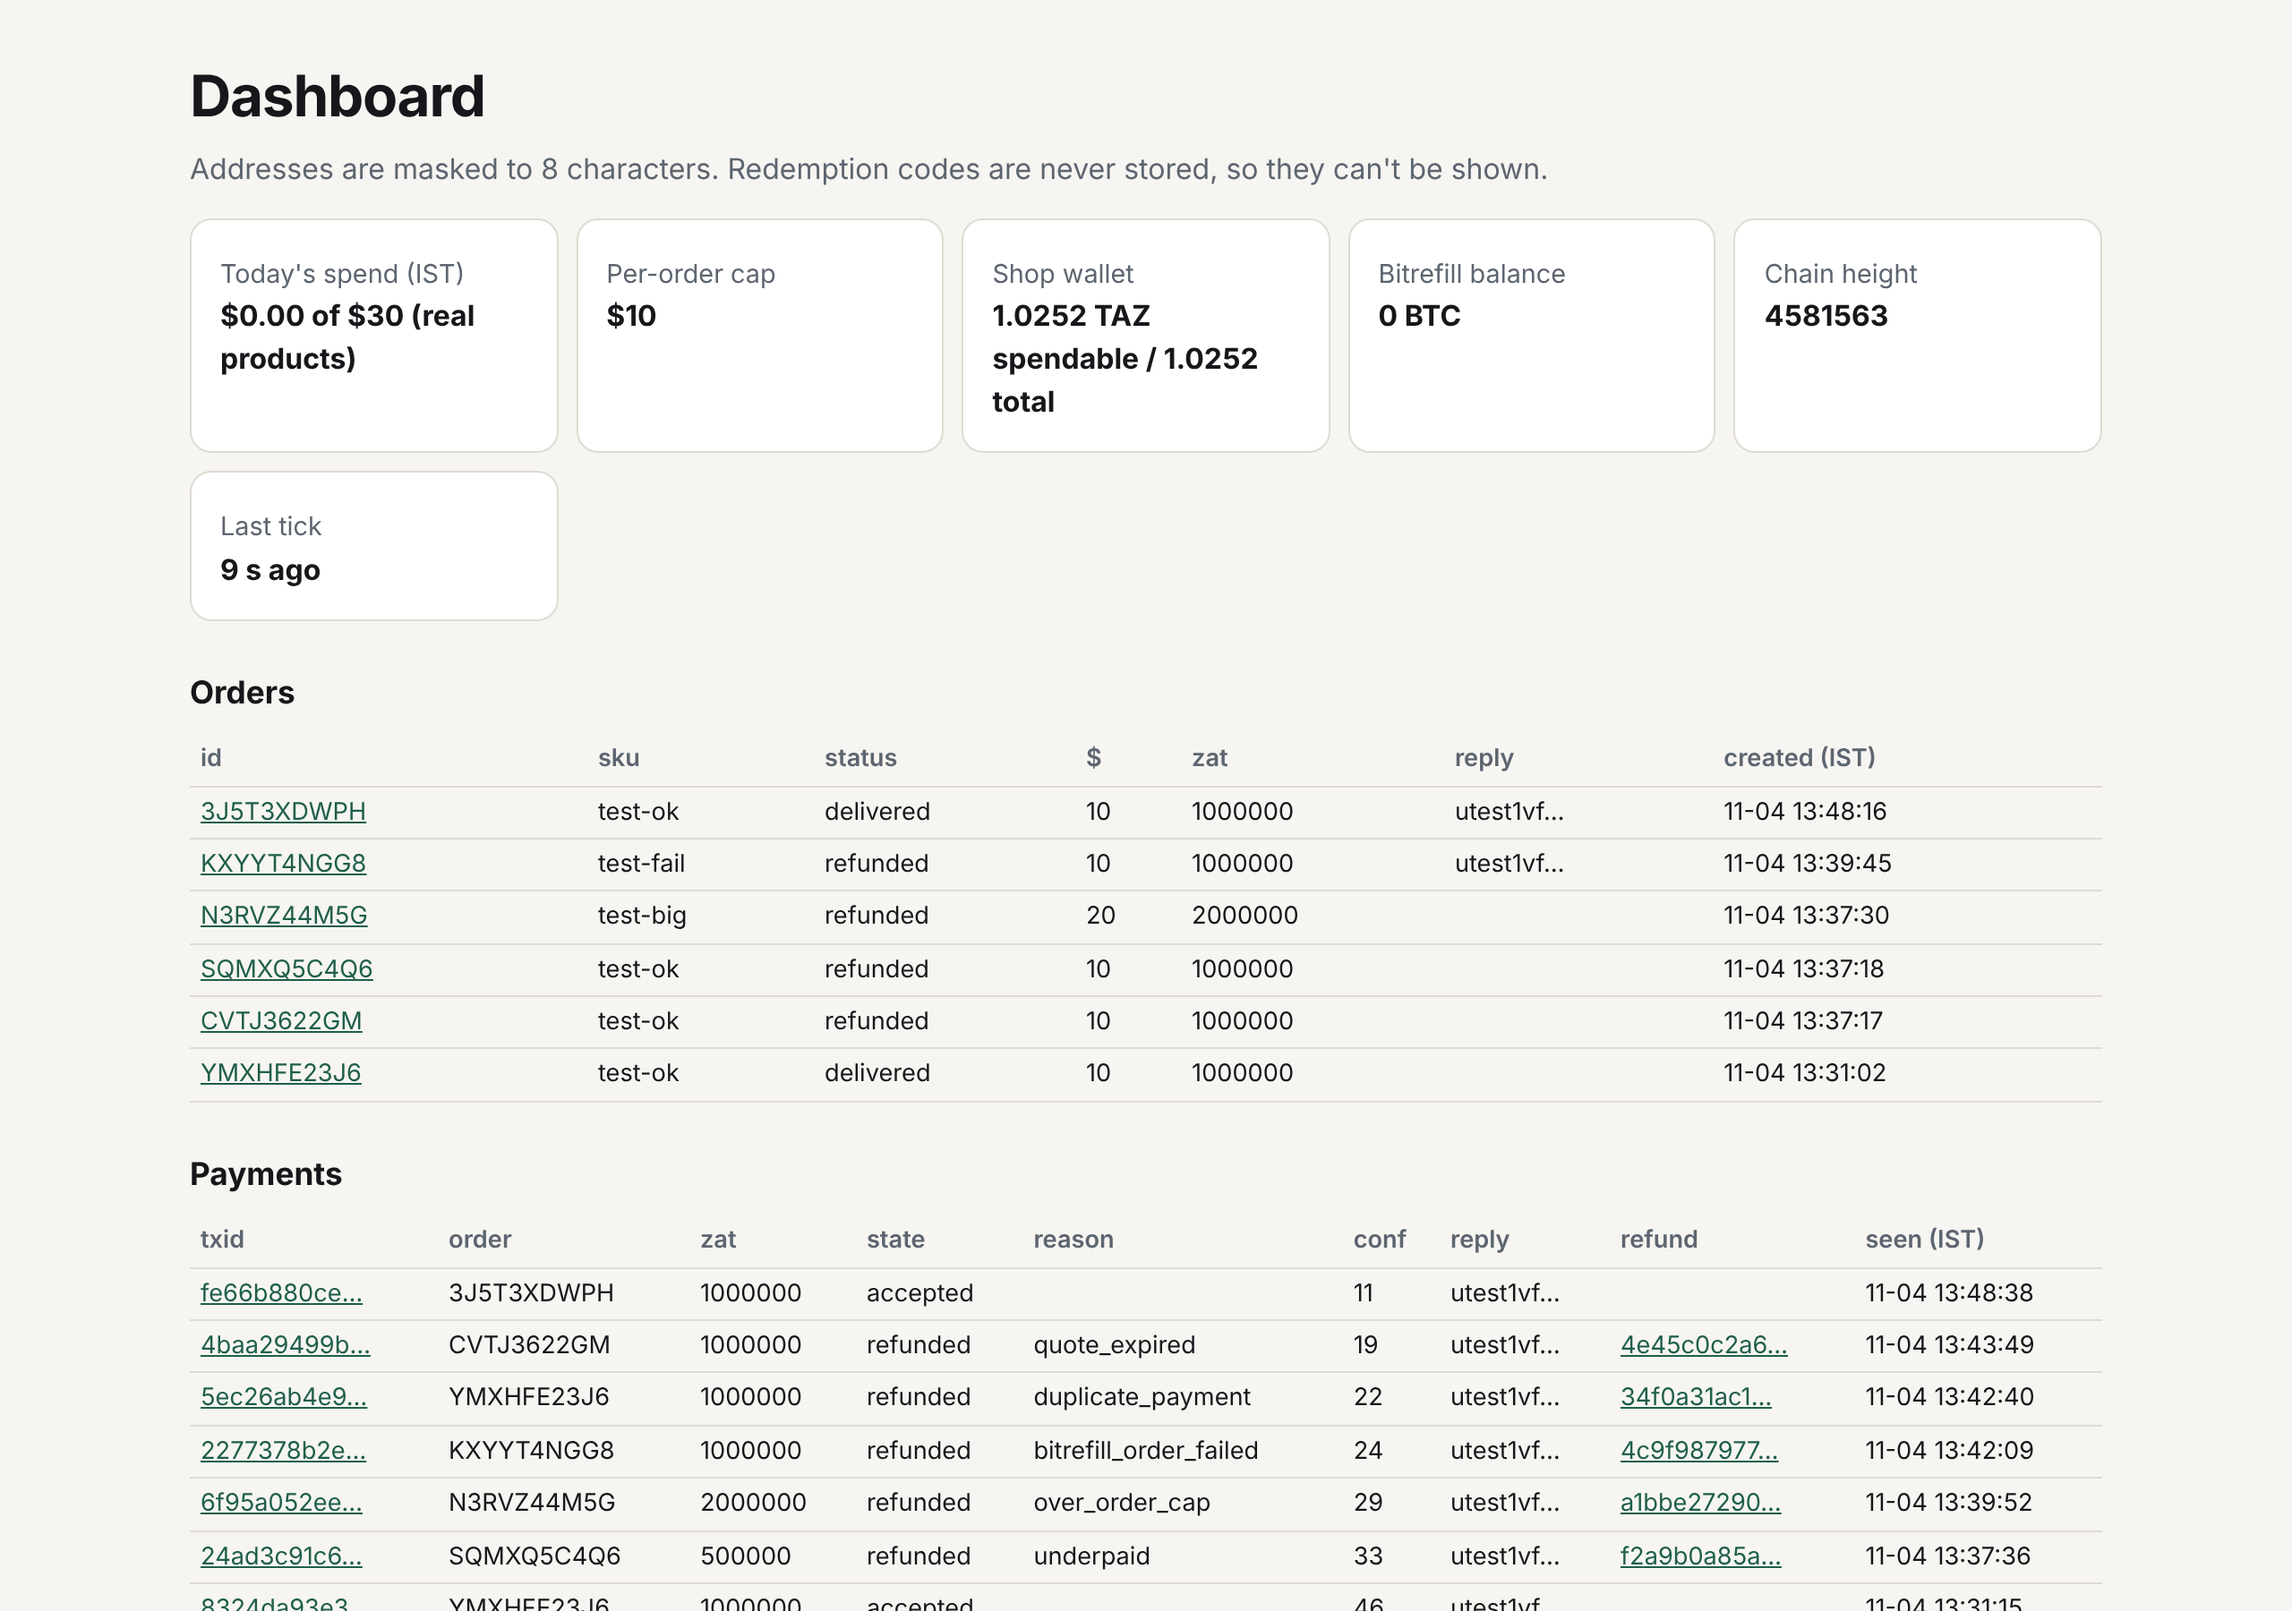
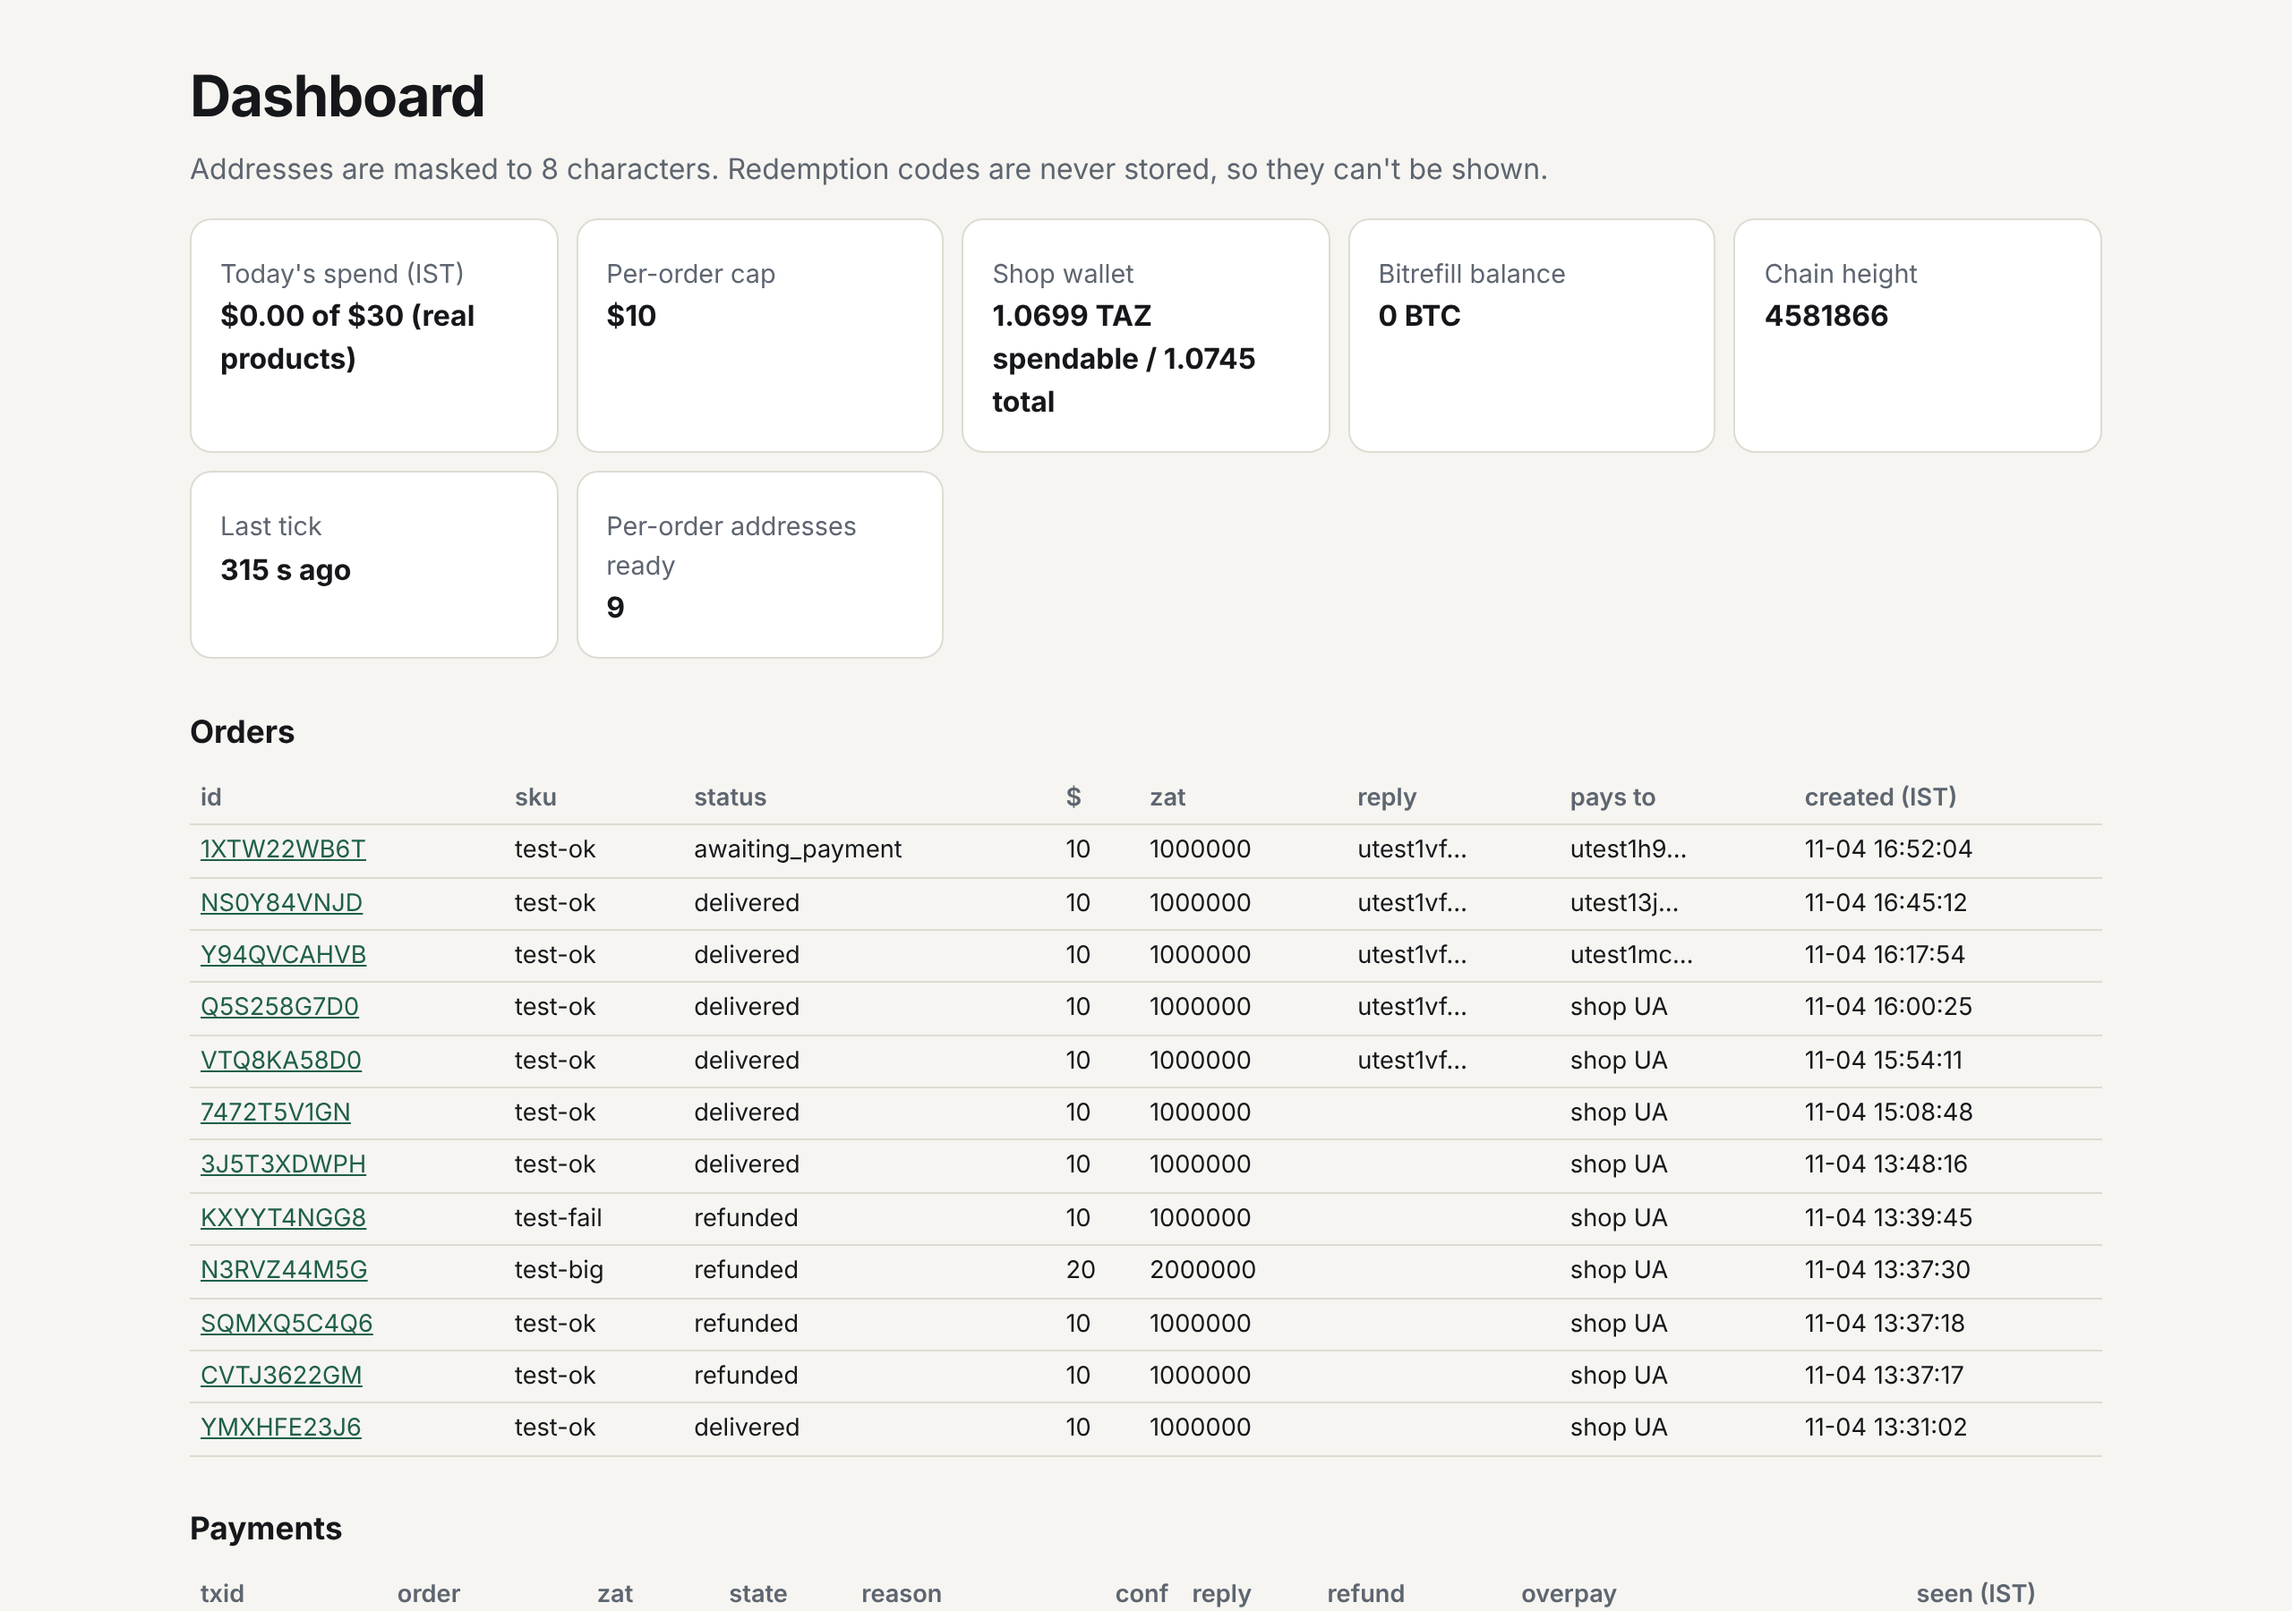
README: fresh screenshots (order with its own address, dashboard pool column)
Claude-Session: https://claude.ai/code/session_01CyuyUvYJ9x6vUKwACWNDLA

diff --git a/README.md b/README.md
@@ -8,9 +8,9 @@
 
 [![ci](https://github.com/bilgin-kocak/chupke/actions/workflows/ci.yml/badge.svg?branch=main)](https://github.com/bilgin-kocak/chupke/actions/workflows/ci.yml)
 
-| Shop | Order, delivered | Order, refunded | Operator dashboard |
-| --- | --- | --- | --- |
-| <img src="docs/img/home.png" width="190" alt="Shop page"> | <img src="docs/img/order-sent.png" width="190" alt="Order page after delivery (QR and memo blurred)"> | <img src="docs/img/order-refunded.png" width="190" alt="Order page after an automatic refund (QR and memo blurred)"> | <img src="docs/img/dashboard.png" width="300" alt="Dashboard with addresses masked"> |
+| Shop | Order, waiting (its own address) | Order, delivered | Order, refunded | Operator dashboard |
+| --- | --- | --- | --- | --- |
+| <img src="docs/img/home.png" width="190" alt="Shop page"> | <img src="docs/img/order-waiting.png" width="190" alt="Order page waiting for payment, with its own address (QR and memo blurred)"> | <img src="docs/img/order-sent.png" width="190" alt="Order page after delivery (QR and memo blurred)"> | <img src="docs/img/order-refunded.png" width="190" alt="Order page after an automatic refund (QR and memo blurred)"> | <img src="docs/img/dashboard.png" width="300" alt="Dashboard with addresses masked"> |
 
 | Track | What Chupke contributes |
 | --- | --- |
